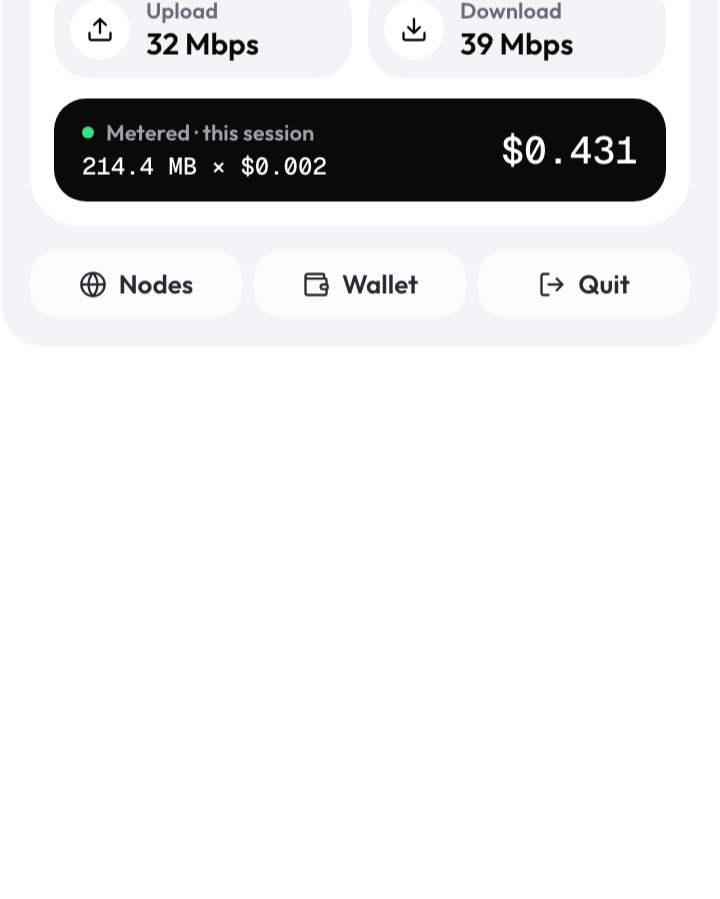
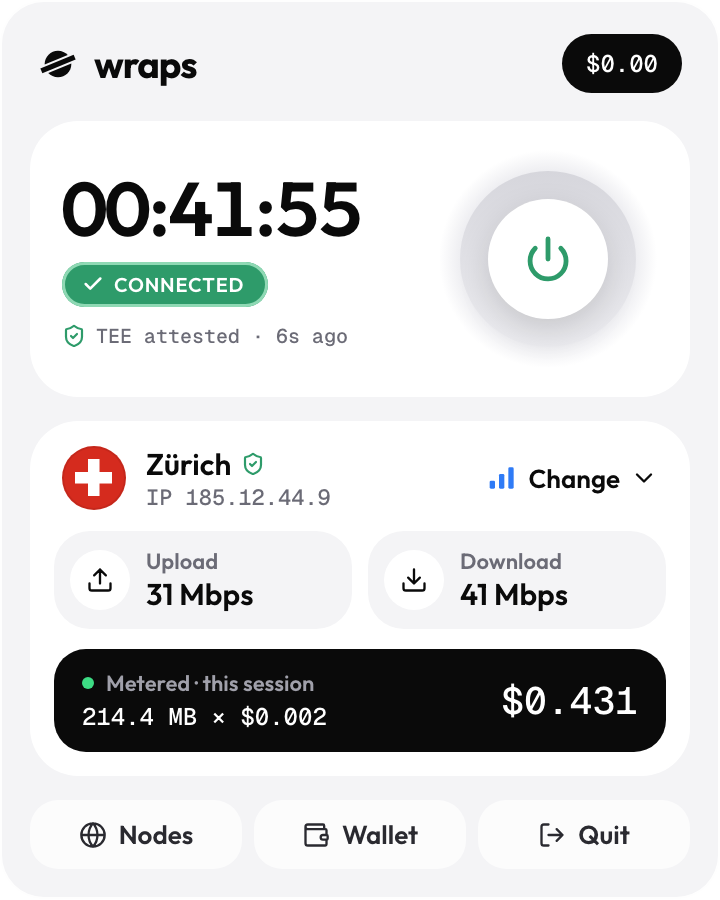
Use full menu-bar panel screenshots

diff --git a/website/styles.css b/website/styles.css
@@ -63,13 +63,10 @@ h3 { font-size: 20px; font-weight: 700; letter-spacing: -0.01em; margin-bottom: 
 .refused { background: rgba(229,72,77,.08); color: var(--red) !important; }
 .meter { background: var(--ink); color: #fff !important; }
 
-/* Menu-bar panels: the screenshots are cropped at the top and transparent at the bottom */
+/* Menu-bar panels: real screenshots of the macOS app (2x, transparent corners) */
 .panels { display: flex; justify-content: center; align-items: flex-start; gap: 32px; flex-wrap: wrap; margin-top: 20px; padding: 56px 24px 40px; background: var(--canvas); border-radius: 24px; }
 .panels figure { width: 360px; max-width: 100%; }
-.crop { overflow: hidden; border-radius: 24px 24px 32px 32px; -webkit-mask-image: linear-gradient(to bottom, transparent 0, #000 48px); mask-image: linear-gradient(to bottom, transparent 0, #000 48px); }
-.crop img { width: 100%; }
-.crop-a { aspect-ratio: 360 / 176; }
-.crop-b { aspect-ratio: 360 / 292; }
+.crop img { width: 100%; display: block; }
 .panels figcaption { text-align: center; color: #50505A; font-size: 14px; margin-top: 14px; }
 .panels + .note { text-align: center; }
 
